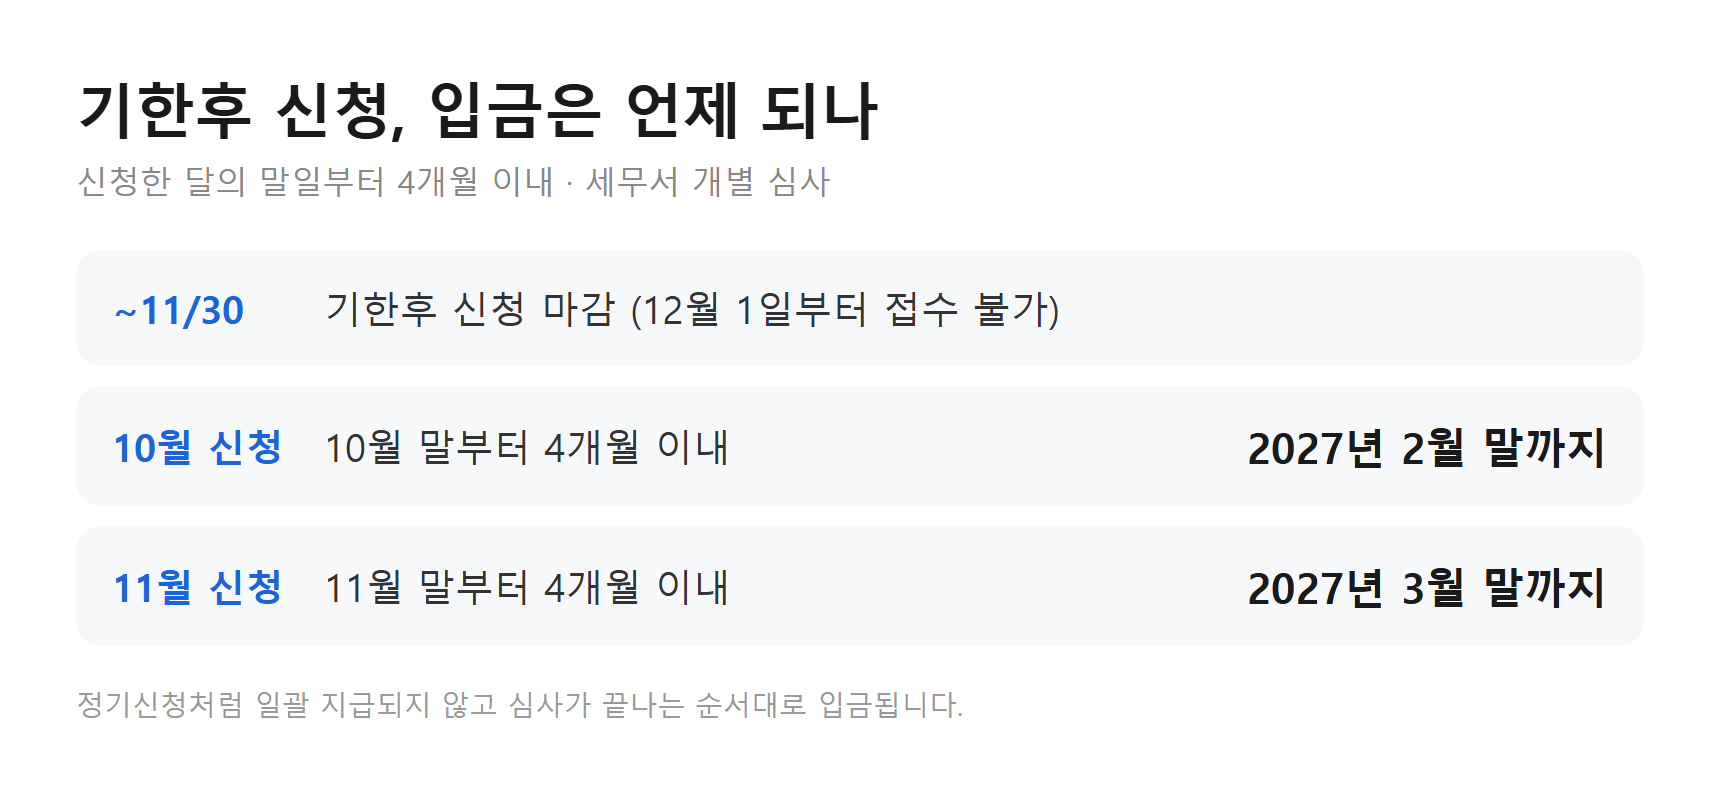
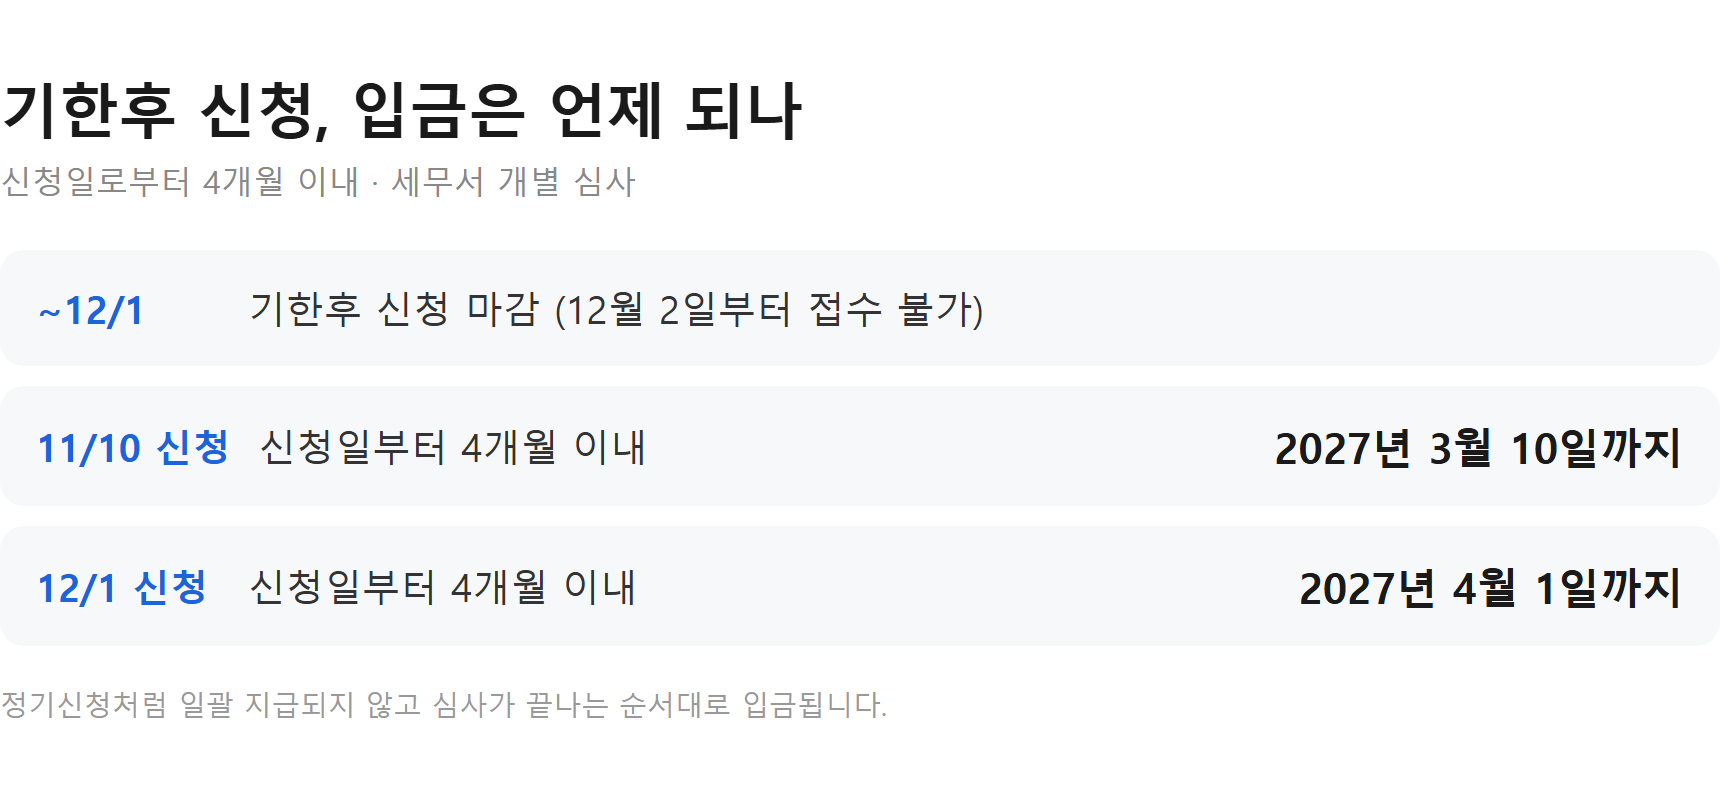
8편 정정: 근로장려금 기한 후 신청 마감·감액률을 3차 자료대로 써서 틀렸다
무엇이 틀렸나
- 8편(2026-10-03 발행)은 웹 검색 자료를 따라 기한 후 신청을 `6/1~11/30`, `10% 감액`,
  `신청월 말일부터 4개월 이내 지급`으로 썼다. 메모에 "공식 수치는 아님"이라고 적은 채 발행됐다.
- 공식 안내는 `'26.6.2.~12.1.`(국세청 신청기간 및 방법), `95% 지급`·`신청일로부터 4개월 이내`(국세청 심사 및 지급)다.
  정기신청은 5/1~5/31이 아니라 5/1~6/1이다(정책브리핑 2026-04-30).
- 가구별 금액도 틀렸다. 148만 5천원·256만 5천원·297만원을 156만 7,500원·270만 7,500원·313만 5천원으로 고쳤다.
  카드 19(감액)·20(지급 일정)을 다시 만들었다.

재발 방지
- check_naver.py: 작성 메모에 공식 확인 전 수치라는 표시가 남은 글을 매번 경고한다(셀프테스트 고정).
  지금 07·09편이 걸린다. 30편부터는 일정 근거가 1차 기관이어야 해 새 글은 이미 막힌다. 이 경고는 그 전에 발행된 글용이다.

같이 담은 것: 32편 후보 캘린더, sync가 기록한 31편 발행 시각.
라이브 8편은 커밋 시점에 아직 옛 문구였다(2026-11-03 조회).

diff --git a/make_naver_images.py b/make_naver_images.py
@@ -800,36 +800,36 @@ CARDS = {
       <p class='foot'>소득만 보던 직장가입자에서 은퇴 등으로 전환되면, 집이 있다는 이유로 보험료가 늘어날 수 있습니다.</p>
     """),
     "19_근로장려금_기한후_감액": card_html("""
-      <h2>기한후 신청하면 10% 깎입니다</h2>
-      <p class='sub'>가구 유형별 최대액 기준 · 신청은 11월 30일까지</p>
+      <h2>기한후 신청하면 5% 깎입니다</h2>
+      <p class='sub'>가구 유형별 최대액 기준 · 신청은 12월 1일까지</p>
       <div class='exgrid'>
         <div class='ex'>
           <span class='badge' style='background:#1b64da;'>단독</span>
           <div class='pay'>165만 원 →</div>
-          <div class='amt'>148.5만 원</div>
-          <div class='note'>15만 원 5천 원 감액</div>
+          <div class='amt'>156.75만 원</div>
+          <div class='note'>8만 2,500원 감액</div>
         </div>
         <div class='ex'>
           <span class='badge' style='background:#12b886;'>홑벌이</span>
           <div class='pay'>285만 원 →</div>
-          <div class='amt'>256.5만 원</div>
-          <div class='note'>28만 5천 원 감액</div>
+          <div class='amt'>270.75만 원</div>
+          <div class='note'>14만 2,500원 감액</div>
         </div>
         <div class='ex'>
           <span class='badge' style='background:#f76707;'>맞벌이</span>
           <div class='pay'>330만 원 →</div>
-          <div class='amt'>297만 원</div>
-          <div class='note'>33만 원 감액</div>
+          <div class='amt'>313.5만 원</div>
+          <div class='note'>16만 5천 원 감액</div>
         </div>
       </div>
-      <p class='foot'>소득·재산 요건은 정기신청과 같습니다. 줄어드는 것은 지급액 10%뿐입니다.</p>
+      <p class='foot'>소득·재산 요건은 정기신청과 같습니다. 줄어드는 것은 지급액 5%뿐입니다.</p>
     """),
     "20_근로장려금_기한후_지급일정": card_html("""
       <h2>기한후 신청, 입금은 언제 되나</h2>
-      <p class='sub'>신청한 달의 말일부터 4개월 이내 · 세무서 개별 심사</p>
-      <div class='row'><span class='tag'>~11/30</span><span class='txt'>기한후 신청 마감 (12월 1일부터 접수 불가)</span></div>
-      <div class='row'><span class='tag'>10월 신청</span><span class='txt'>10월 말부터 4개월 이내</span><span class='num'>2027년 2월 말까지</span></div>
-      <div class='row'><span class='tag'>11월 신청</span><span class='txt'>11월 말부터 4개월 이내</span><span class='num'>2027년 3월 말까지</span></div>
+      <p class='sub'>신청일로부터 4개월 이내 · 세무서 개별 심사</p>
+      <div class='row'><span class='tag'>~12/1</span><span class='txt'>기한후 신청 마감 (12월 2일부터 접수 불가)</span></div>
+      <div class='row'><span class='tag'>11/10 신청</span><span class='txt'>신청일부터 4개월 이내</span><span class='num'>2027년 3월 10일까지</span></div>
+      <div class='row'><span class='tag'>12/1 신청</span><span class='txt'>신청일부터 4개월 이내</span><span class='num'>2027년 4월 1일까지</span></div>
       <p class='foot'>정기신청처럼 일괄 지급되지 않고 심사가 끝나는 순서대로 입금됩니다.</p>
     """),
     "21_납부확인서_자격득실확인서_비교": card_html("""

diff --git a/check_naver.py b/check_naver.py
@@ -607,6 +607,16 @@ def composition_repeat(comps: dict) -> list:
 CARD_ENABLED = False
 
 
+# 8편은 3차 자료의 마감일(11-30)·감액률(10%)을 썼고 메모에 "공식 수치는 아님"이라고 적은 채 발행됐다.
+# 공식은 12-01·5%였다(2026-11-03 발견). 이런 표시가 남은 글은 발행 뒤에도 계속 알린다.
+UNOFFICIAL_RE = re.compile(r'공식 수치는 아님|공식 수치 아님|3차 자료|대조 권장|공식 확인 전')
+
+
+def unofficial_posts(texts: dict) -> list:
+    """편 번호 → 원고. 작성 메모에 공식 확인 전 수치라는 표시가 남은 글."""
+    return sorted(k for k, v in texts.items() if '## 작성 메모' in v and UNOFFICIAL_RE.search(v.split('## 작성 메모', 1)[1]))
+
+
 def card_paused(kinds: dict) -> list:
     """CARD_ENABLED가 꺼져 있는데 썸네일 유형이 card인 원고."""
     return [] if CARD_ENABLED else [k for k, v in sorted(kinds.items()) if v == "card"]
@@ -959,6 +969,7 @@ def selftest():
     if not CARD_ENABLED:      # card 보류 중: scene 3연속은 통과, card 원고는 막는다
         assert thumb_streak({"15": "scene", "16": "scene", "17": "scene"}) == []
         assert card_paused({"15": "scene", "16": "card", "14": None}) == ["16"]
+    assert unofficial_posts({"08": "본문 3차 자료\n## 작성 메모\n- **공식 수치는 아님**", "09": "본문 3차 자료\n## 작성 메모\n- 출처 확인", "10": "메모 없음"}) == ["08"]
     assert same_box_title({"15": [SUMMARY_TITLE], "16": [SUMMARY_TITLE]}) == []        # 템플릿 고정 제목은 중복으로 안 본다
 
     # 27편부터의 품질 규칙 — 표 3·박스 2·FAQ 2·태그 4, 고유 근거·1차 출처·가상 표시
@@ -1169,6 +1180,9 @@ def main():
     for name in composition_repeat(comps):
         allok = False
         print(f'CHECK {name} — 썸네일 구도가 바로 앞 편과 같다. 다른 구도를 고른다')
+    texts = {os.path.basename(f)[:2]: open(f, encoding='utf-8').read() for f in glob.glob(os.path.join(os.path.dirname(os.path.abspath(__file__)), 'content', 'naver', '[0-9][0-9]_*.md'))}
+    for n in unofficial_posts(texts):
+        print(f'⚠ {n}편 — 작성 메모에 공식 확인 전 수치라는 표시가 있다. 발행 글이면 공식 자료와 대조한다 (8편이 이렇게 틀린 채 발행됐다)')
     for name in card_paused(thumb_kinds):
         allok = False
         print(f'CHECK {name} — card 썸네일은 보류 중이다(CARD_ENABLED). scene으로 만든다')

diff --git a/content/naver/08_근로장려금-신청기간.md b/content/naver/08_근로장려금-신청기간.md
@@ -1,42 +1,42 @@
-제목: 근로장려금 신청기간 지났어도 11월 30일까지 받는 법
+제목: 근로장려금 신청기간 지났어도 12월 1일까지 받는 법
 
 ---
 
 [이미지 ①: 대표 사진 — `python -X utf8 suggest_cover.py` 후보 중 하나를 골라 넣습니다. 이 글의 썸네일이 됩니다. 사진 바로 아래 줄에 갤러리의 출처 문구를 그대로 붙여 넣으세요]
 
-5월 정기신청을 놓쳐서 "올해는 끝났다"고 생각하셨다면 아직 아닙니다. **근로장려금 기한후 신청은 11월 30일까지** 가능하고, 이 날이 지나면 접수 자체가 닫힙니다. 대신 **금액의 10%가 깎이고**, 입금까지 최대 4개월이 걸립니다.
+5월 정기신청을 놓쳐서 "올해는 끝났다"고 생각하셨다면 아직 아닙니다. **근로장려금 기한후 신청은 12월 1일까지** 가능하고, 이 날이 지나면 접수 자체가 닫힙니다. 대신 **산정액의 95%만 받고**, 입금까지 최대 4개월이 걸립니다.
 
 [경험 한 줄 ①]
 
 ## 정기신청과 기한후 신청, 날짜가 이렇게 갈립니다
 
-- **정기신청** — 5월 1일~5월 31일
-- **기한후 신청** — 6월 1일~11월 30일
+- **정기신청** — 5월 1일~6월 1일
+- **기한후 신청** — 6월 2일~12월 1일
 
-기한후 신청도 **소득·재산 요건은 정기신청과 똑같이 적용**됩니다. 늦게 냈다고 기준이 낮아지거나 높아지지 않고, 오직 지급액에서 10%만 빠집니다.
+기한후 신청도 **소득·재산 요건은 정기신청과 똑같이 적용**됩니다. 늦게 냈다고 기준이 낮아지거나 높아지지 않고, 오직 지급액에서 5%만 빠집니다.
 
-## 10% 감액, 실제로는 얼마나 줄어들까
+## 5% 감액, 실제로는 얼마나 줄어들까
 
-감액은 **최대 지급액이 아니라 본인이 받을 금액 전체**에서 10%입니다. 가구 유형별 최대액으로 계산하면 이렇습니다.
+감액은 **최대 지급액이 아니라 본인이 받을 금액 전체**에서 5%입니다. 가구 유형별 최대액으로 계산하면 이렇습니다.
 
-- 단독 가구 — 165만원 → **148만 5천원**
-- 홑벌이 가구 — 285만원 → **256만 5천원**
-- 맞벌이 가구 — 330만원 → **297만원**
+- 단독 가구 — 165만원 → **156만 7,500원**
+- 홑벌이 가구 — 285만원 → **270만 7,500원**
+- 맞벌이 가구 — 330만원 → **313만 5천원**
 
 [이미지 ②: `assets/naver_img/19_근로장려금_기한후_감액.png` — 제작 완료]
 
-최대액을 받는 분이 아니라면 실제 차이는 이보다 작습니다. 그래도 신청을 아예 안 해서 0원이 되는 것보다는 **10% 깎여서라도 받는 쪽이 훨씬 낫습니다.**
+최대액을 받는 분이 아니라면 실제 차이는 이보다 작습니다. 그래도 신청을 아예 안 해서 0원이 되는 것보다는 **5% 깎여서라도 받는 쪽이 훨씬 낫습니다.**
 
 ## 입금은 언제 되나
 
-기한후 신청분은 **신청한 달의 말일부터 4개월 이내**에 세무서 심사를 거쳐 순차 지급됩니다. 정기신청처럼 8월 말에 일괄 지급되지 않습니다.
+기한후 신청분은 **신청일로부터 4개월 이내**에 세무서 심사를 거쳐 순차 지급됩니다. 정기신청처럼 8월 말에 일괄 지급되지 않습니다.
 
-- **10월에 신청** — 2027년 2월 말까지
-- **11월에 신청** — 2027년 3월 말까지
+- **11월 10일에 신청** — 2027년 3월 10일까지
+- **12월 1일에 신청** — 2027년 4월 1일까지
 
 [이미지 ③: `assets/naver_img/20_근로장려금_기한후_지급일정.png` — 제작 완료]
 
-**마감 직전인 11월 말에 몰리면 심사도 그만큼 늦어질 수 있어서**, 신청할 거라면 서두르는 편이 입금도 빠릅니다.
+**마감 직전인 12월 1일 무렵에 몰리면 심사도 그만큼 늦어질 수 있어서**, 신청할 거라면 서두르는 편이 입금도 빠릅니다.
 
 ## 신청은 홈택스·손택스에서 바로
 
@@ -47,7 +47,7 @@
 
 [경험 한 줄 ②]
 
-**12월 1일이 되면 신청 창구가 닫힙니다.** 아직 대상인지 확실하지 않아도 홈택스 모의계산으로 금액을 먼저 확인해보고, 대상이면 11월이 가기 전에 접수해두세요.
+**12월 2일이 되면 신청 창구가 닫힙니다.** 아직 대상인지 확실하지 않아도 홈택스 모의계산으로 금액을 먼저 확인해보고, 대상이면 12월 1일 전에 접수해두세요.
 
 ---
 
@@ -57,13 +57,15 @@
 
 ## 작성 메모 (발행 시 삭제)
 
-- 출처: 국세청 근로장려금 안내, 조세특례제한법 제100조의6~(기한후 신청). 기한후 신청 6/1~11/30,
-  10% 감액, 신청월 말일부터 4개월 이내 지급은 웹 검색(2026-10-03) 3차 자료 다수가 일치.
-  **공식 수치는 아님 — 국세청(nts.go.kr) 근로장려금 안내와 대조 권장.** 발행 시점이 11월 30일에
-  가까울수록 "두 달 남짓" 같은 표현이 없어 시한 문제는 없음. 단, **12월 1일 이후에는 이 글을 내리거나
+- 2026-11-03 정정: 발행본은 웹 검색 자료를 따라 `6/1~11/30`·`10% 감액`·`신청월 말일부터 4개월`로 썼다. 공식 안내는 아래와 같다.
+  국세청 신청기간 및 방법(2025년 귀속 기한 후 신청 '26.6.2.~12.1.) https://www.nts.go.kr/nts/cm/cntnts/cntntsView.do?mi=40397&cntntsId=238977 ·
+  국세청 심사 및 지급(기한 후 신청 95% 지급, 신청일로부터 4개월 이내) https://www.nts.go.kr/nts/cm/cntnts/cntntsView.do?mi=2453&cntntsId=7784 ·
+  정책브리핑 2026-04-30(정기신청 5.1.~6.1., 단독 165·홑벌이 285·맞벌이 330만원, 기한 후 95%) https://www.korea.kr/news/policyNewsView.do?newsId=148963769
+  발행 시점이 12월 1일에
+  가까울수록 "두 달 남짓" 같은 표현이 없어 시한 문제는 없음. 단, **12월 2일 이후에는 이 글을 내리거나
   수정**할 것(마감 경과 글은 오히려 신뢰를 깎는다)
-- 감액 예시 금액은 카드 01의 가구유형별 최대액(단독 165, 홑벌이 285, 맞벌이 330만원) × 0.9.
-  165→148.5 / 285→256.5 / 330→297. 지급 시기 예시는 10월 말+4개월=2월 말, 11월 말+4개월=3월 말
+- 감액 예시 금액은 가구유형별 최대액(단독 165, 홑벌이 285, 맞벌이 330만원) × 0.95.
+  165→156.75 / 285→270.75 / 330→313.5. 지급 시기 예시는 신청일 + 4개월(11/10→3/10, 12/1→4/1)
 - 카테고리: 근로장려금·자녀장려금 (01, 03에 이어 세 번째)
 - 제목 구조: "~ 지났어도 ~까지 받는 법" — 01·02("이유"), 03("순서"), 04(N단계), 05, 06, 07과 겹치지 않음
 - 내부 링크 1개: 03(조회 — 안내문 없이 신청하는 경로)

diff --git a/content/naver/_calendar.md b/content/naver/_calendar.md
@@ -1,5 +1,18 @@
 # 네이버 글감 캘린더
 
+## 32편 후보 (2026-11-03) · 추세 미반영(DataLab 키 없음)
+
+`sync` 기준 31편까지 라이브. 발행 가능 시각은 2026-11-06 23:06 이후. AI 브리핑·블로그 탭은 11-01 조회값(wg-01은 10-31)이다. 제목은 여기서 정하지 않는다.
+
+**먼저 할 일 — 8편 정정 (UPDATE_EXISTING, 사용자 승인 필요).** 8편(logNo 224430177260)은 기한 후 신청을 `6월 1일~11월 30일`, `10% 감액`으로 썼다. 국세청 신청기간 안내는 2025년 귀속 기한 후 신청을 `'26.6.2.~12.1.`로, 정책브리핑(2025-11-04, 2024년 귀속)은 기한 후 신청을 `산정액의 95% 지급`으로 안내한다. 마감 전에 고쳐야 의미가 있다. 감액 카드(`19_근로장려금_기한후_감액.png`)도 다시 계산해야 한다. 그래서 wg-01은 새 글로 쓰지 않는다(8편과 같은 검색 의도).
+
+| 순 | ID | 주제 | 월 검색량 | AI 브리핑 블로그 인용형 질의 | 대표사진 틀·돼지 | 판단 |
+|---|---|---|---|---|---|---|
+| 1 | rt-01 | 퇴직금 세금 계산 세전·세후 | 7,760 | `계산기 방법` 7 · `얼마나` 4 · `공제`·`환급`·`계산기 세후` 각 3 · `몇프로` 1 | compare · calculator(상반신) | 시즌 무관. 연말 퇴사·이직 전에 찾는다. 가상 계산이 고유 근거다. 퇴직소득세 계산식(근속연수공제·환산급여공제) 공식 확인 필요 |
+| 2 | np-01 | 국민연금 반환일시금 조건·금액·반납 | - | `신청 조건`·`계산` 각 4 · `반납제도` 3 · `조건`·`소멸시효`·`금액` 각 2 · `조회` 1 | compare · document | 17·22편과 링크된다. 31편이 건강보험이라 연금·건강보험이 연달아 늘어난다 |
+| 보류 | yj-02 | 자녀 세액공제 금액·개정 | - | 10-31 조회 `개정` 4 · `금액` 3 | - | 2026 세제개편안의 국회 통과를 11-03에도 확인하지 못했다 |
+| 보류 | bg-07 | 이자·배당소득 있는 부모님 인적공제 | - | 10-28 조회 없음 | - | 인용 자리가 없다 |
+
 ## 31편 후보 (2026-11-01) · 추세 미반영(DataLab 키 없음)
 
 `sync` 기준 30편까지 라이브. 발행 가능 시각은 2026-11-05 22:38 이후. 검색량 `-`는 CSV 미수록이다. 블로그 탭은 전부 최근 글 10/10, 우리 30위 밖(11-01 조회, wg-01은 10-31)이다. 제목은 여기서 정하지 않는다(`title_gate.py`). 대표사진 틀은 `compare`·`headline`만 쓴다.
